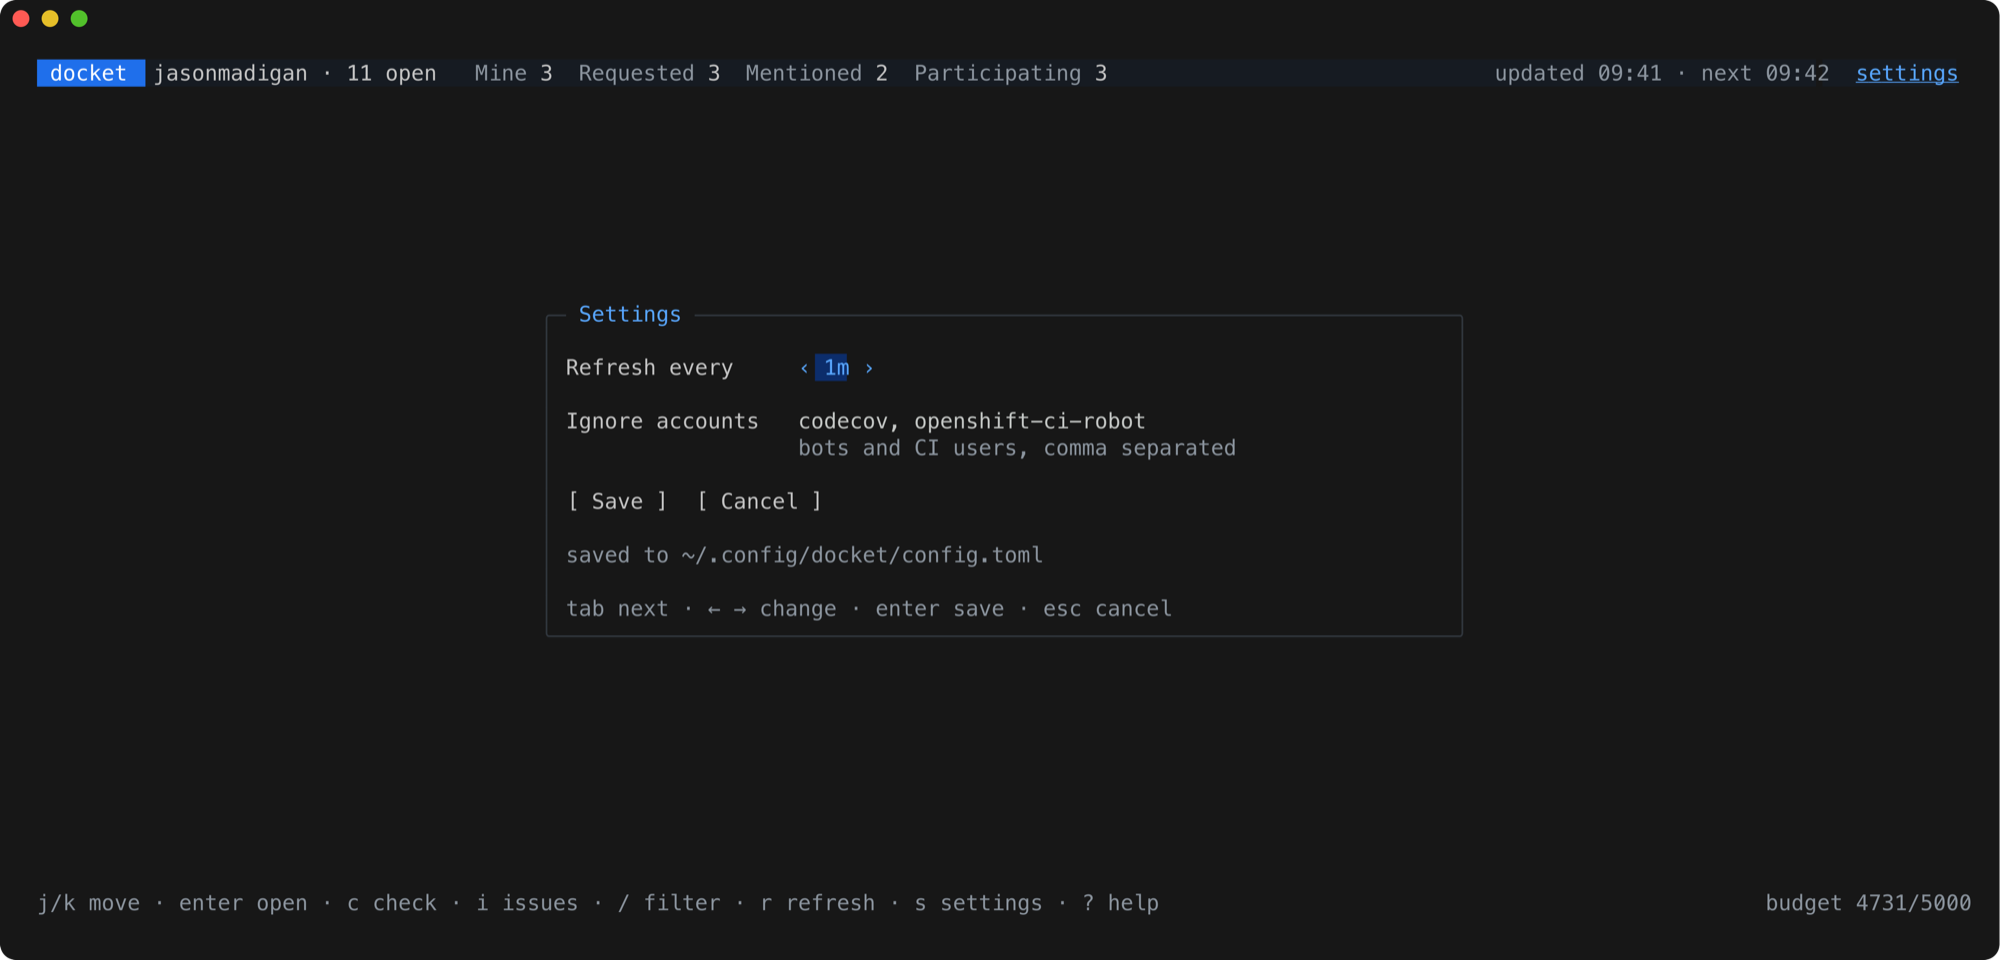
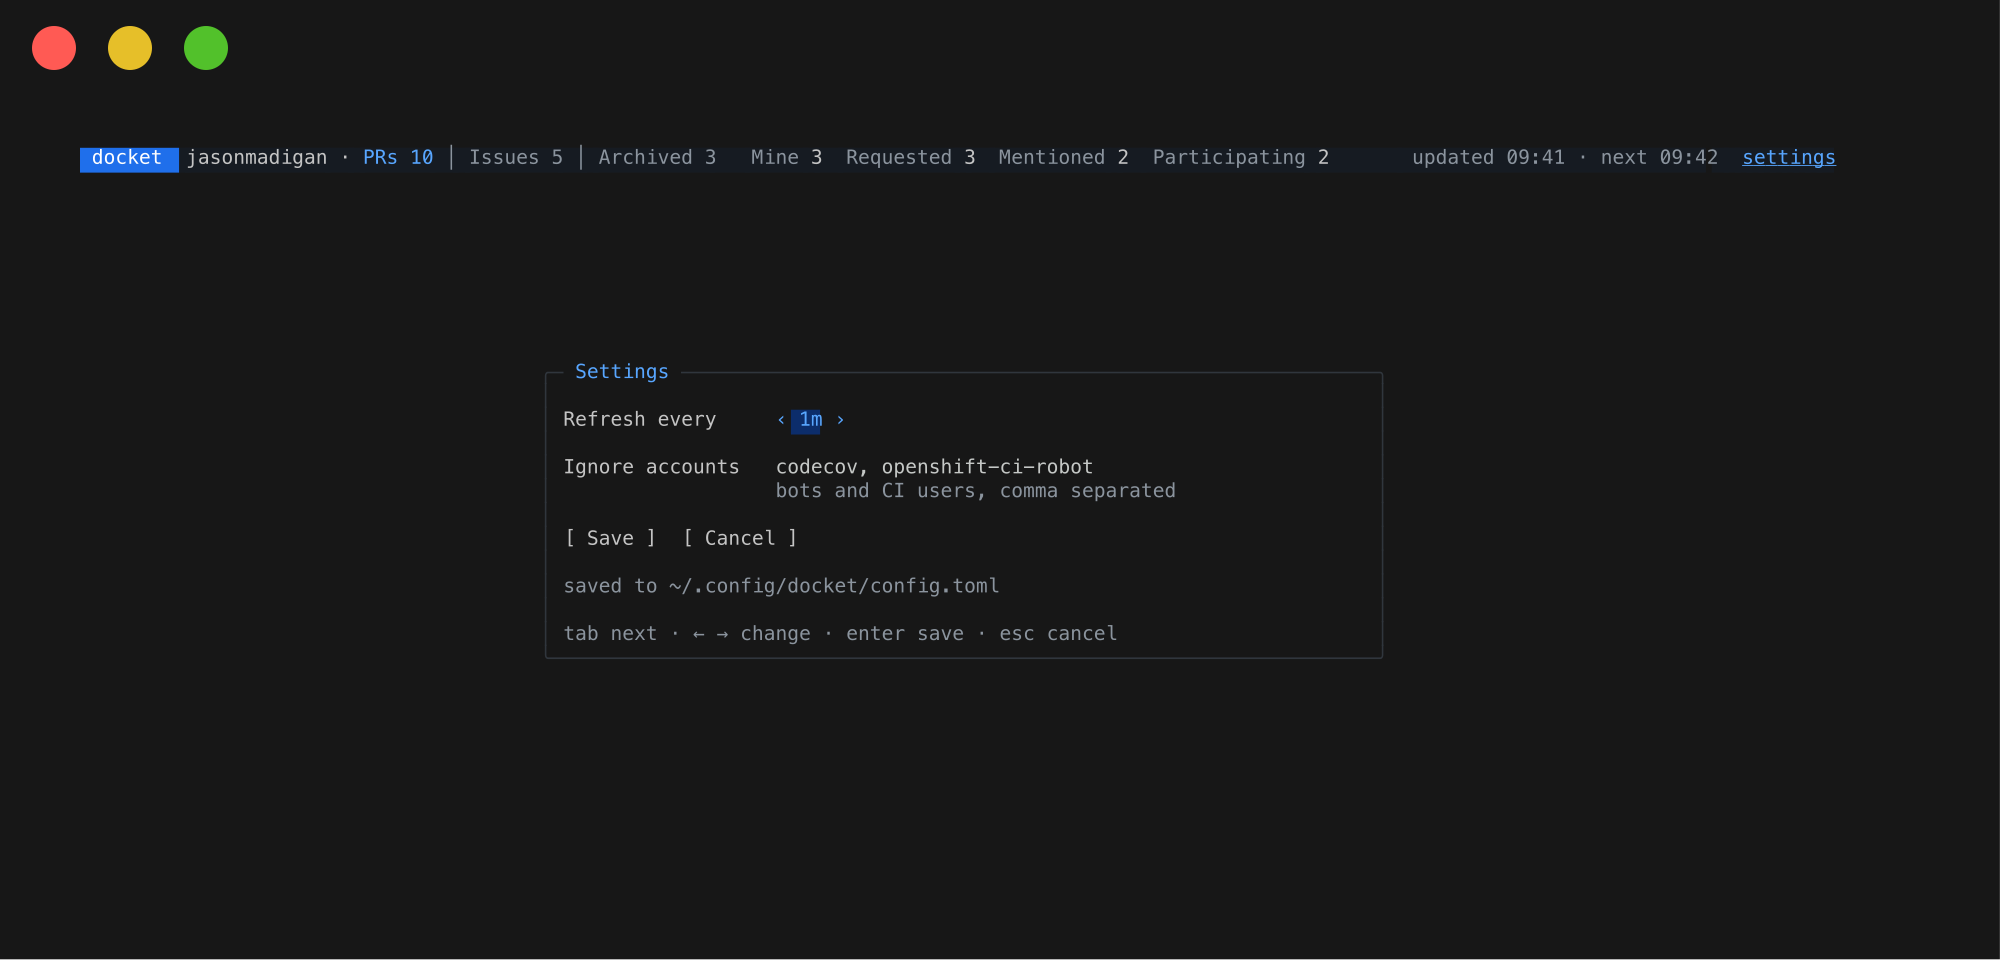
docs: screenshots with issues and the archive

diff --git a/internal/demo/demo.go b/internal/demo/demo.go
@@ -176,10 +176,85 @@ func PRs() []model.PR {
 	return prs
 }
 
+func issue(repo string, n int, title, author string, created time.Duration, tags ...model.Tag) model.Issue {
+	return model.Issue{Item: model.Item{
+		ID: repo + "#" + strconv.Itoa(n), Repo: repo, Number: n, Title: title, URL: url(repo, "issues", n),
+		Author: user(author), CreatedAt: ago(created), Tags: tags,
+	}}
+}
+
+func Issues() []model.Issue {
+	var issues []model.Issue
+
+	is := issue("acme/operator", 2287, "Gateway class changes are ignored", "carol", 9*day, model.TagAssigned)
+	is.Assignees = []model.Actor{user(me)}
+	is.Labels = []string{"bug", "priority/high"}
+	is.PRs = []model.PRRef{{Repo: "acme/operator", Number: 2310, Title: "Reconcile policies when the gateway class changes", URL: url("acme/operator", "pull", 2310), State: "OPEN"}}
+	is.Timeline = []model.Event{
+		{Kind: model.EventAssigned, Actor: user("carol"), At: ago(8 * day), Target: me},
+		{Kind: model.EventReferenced, Actor: user(me), At: ago(6 * day)},
+		{Kind: model.EventComment, Actor: user("carol"), At: ago(26 * time.Hour)},
+	}
+	issues = append(issues, is)
+
+	is = issue("acme/gateway", 1390, "Retry budget for upstream connects", me, 30*day, model.TagAuthor)
+	is.Assignees = []model.Actor{user(me), user("bob")}
+	is.Labels = []string{"enhancement"}
+	is.SubIssues = model.SubIssues{Total: 5, Completed: 2}
+	is.Timeline = []model.Event{{Kind: model.EventComment, Actor: user("bob"), At: ago(4 * day)}}
+	issues = append(issues, is)
+
+	is = issue("acme/docs", 305, "Search results miss the API reference", me, 45*day, model.TagAuthor)
+	is.Labels = []string{"docs"}
+	is.PRs = []model.PRRef{{Repo: "acme/docs", Number: 318, Title: "Document rate limit response headers", URL: url("acme/docs", "pull", 318), State: "OPEN", Draft: true}}
+	issues = append(issues, is)
+
+	is = issue("acme/cli", 140, "status hangs when the cluster is unreachable", "dave", 12*day, model.TagMentioned)
+	is.Assignees = []model.Actor{user("dave")}
+	is.Labels = []string{"bug"}
+	is.Timeline = []model.Event{
+		{Kind: model.EventComment, Actor: user("dave"), At: ago(3 * day)},
+		{Kind: model.EventMentioned, Actor: user(me), At: ago(3 * day)},
+	}
+	issues = append(issues, is)
+
+	is = issue("acme/console", 802, "Contrast of policy badges in dark mode", "erin", 20*day, model.TagCommented)
+	is.Assignees = []model.Actor{user("erin")}
+	is.PRs = []model.PRRef{{Repo: "acme/console", Number: 790, Title: "Raise badge contrast", URL: url("acme/console", "pull", 790), State: "MERGED"}}
+	is.Timeline = []model.Event{
+		{Kind: model.EventComment, Actor: user(me), At: ago(15 * day)},
+		{Kind: model.EventComment, Actor: user("erin"), At: ago(2 * day)},
+	}
+	issues = append(issues, is)
+
+	is = issue("acme/rfcs", 38, "RFC: rate limit policy v2", "frank", 200*day, model.TagCommented)
+	is.Timeline = []model.Event{{Kind: model.EventComment, Actor: user(me), At: ago(190 * day)}}
+	issues = append(issues, is)
+
+	is = issue("acme/operator", 1904, "Flaky e2e on arm64 runners", "bob", 400*day, model.TagMentioned)
+	is.Labels = []string{"flake"}
+	is.Timeline = []model.Event{
+		{Kind: model.EventComment, Actor: user("bob"), At: ago(380 * day)},
+		{Kind: model.EventMentioned, Actor: user(me), At: ago(380 * day)},
+	}
+	issues = append(issues, is)
+
+	return issues
+}
+
+// Archive has an old PR and two quiet issues put away.
+func Archive() map[string]time.Time {
+	return map[string]time.Time{
+		"acme/docs#301":      ago(3 * day),
+		"acme/rfcs#38":       ago(day),
+		"acme/operator#1904": ago(5 * time.Hour),
+	}
+}
+
 // State is a loaded engine state over PRs, with two of them just changed.
 func State() engine.State {
 	return engine.State{
-		Snapshot: model.Build(PRs(), nil, model.Params{Login: me, Teams: []string{"acme/maintainers"}, Now: Now}),
+		Snapshot: model.Build(PRs(), Issues(), model.Params{Login: me, Teams: []string{"acme/maintainers"}, Archive: Archive(), Now: Now}),
 		Loaded:   true,
 		Updated:  Now,
 		Next:     Now.Add(time.Minute),

diff --git a/tools/screenshots/main.go b/tools/screenshots/main.go
@@ -1,6 +1,6 @@
 // Command screenshots renders docket over made-up data for the README.
 //
-//	go run ./tools/screenshots tui 150 32 [keys] > shot.ansi   # then freeze
+//	go run ./tools/screenshots tui 150 32 [keys] > shot.ansi   # keys such as tab or s; then freeze
 //	go run ./tools/screenshots web                            # serves 127.0.0.1:7799
 //	go run ./tools/screenshots text                           # dump output
 package main
@@ -96,9 +96,20 @@ func frame(st engine.State, prefs *settings, w, h int, keys []string) string {
 		model, _ = model.Update(msg)
 	}
 	for _, k := range keys {
-		model, _ = model.Update(tea.KeyPressMsg{Code: []rune(k)[0], Text: k})
+		model, _ = model.Update(press(k))
 	}
 	return model.View().Content
+}
+
+// press is the message a terminal sends for the key k.
+func press(k string) tea.KeyPressMsg {
+	switch k {
+	case "tab":
+		return tea.KeyPressMsg{Code: tea.KeyTab}
+	case "shift+tab":
+		return tea.KeyPressMsg{Code: tea.KeyTab, Mod: tea.ModShift}
+	}
+	return tea.KeyPressMsg{Code: []rune(k)[0], Text: k}
 }
 
 // drain runs cmd and any batch it returns, collecting the messages.

diff --git a/README.md b/README.md
@@ -10,6 +10,8 @@ A PR is listed while it's open and you opened it, were asked to review it (direc
 
 An issue is listed while it's open and you opened it, are assigned to it, were @-mentioned in it or commented on it. PRs and issues each have a tab.
 
+![issues in the terminal](docs/img/tui-issues.png)
+
 ## What it shows
 
 - CI: passing, running, or failing and which checks.
